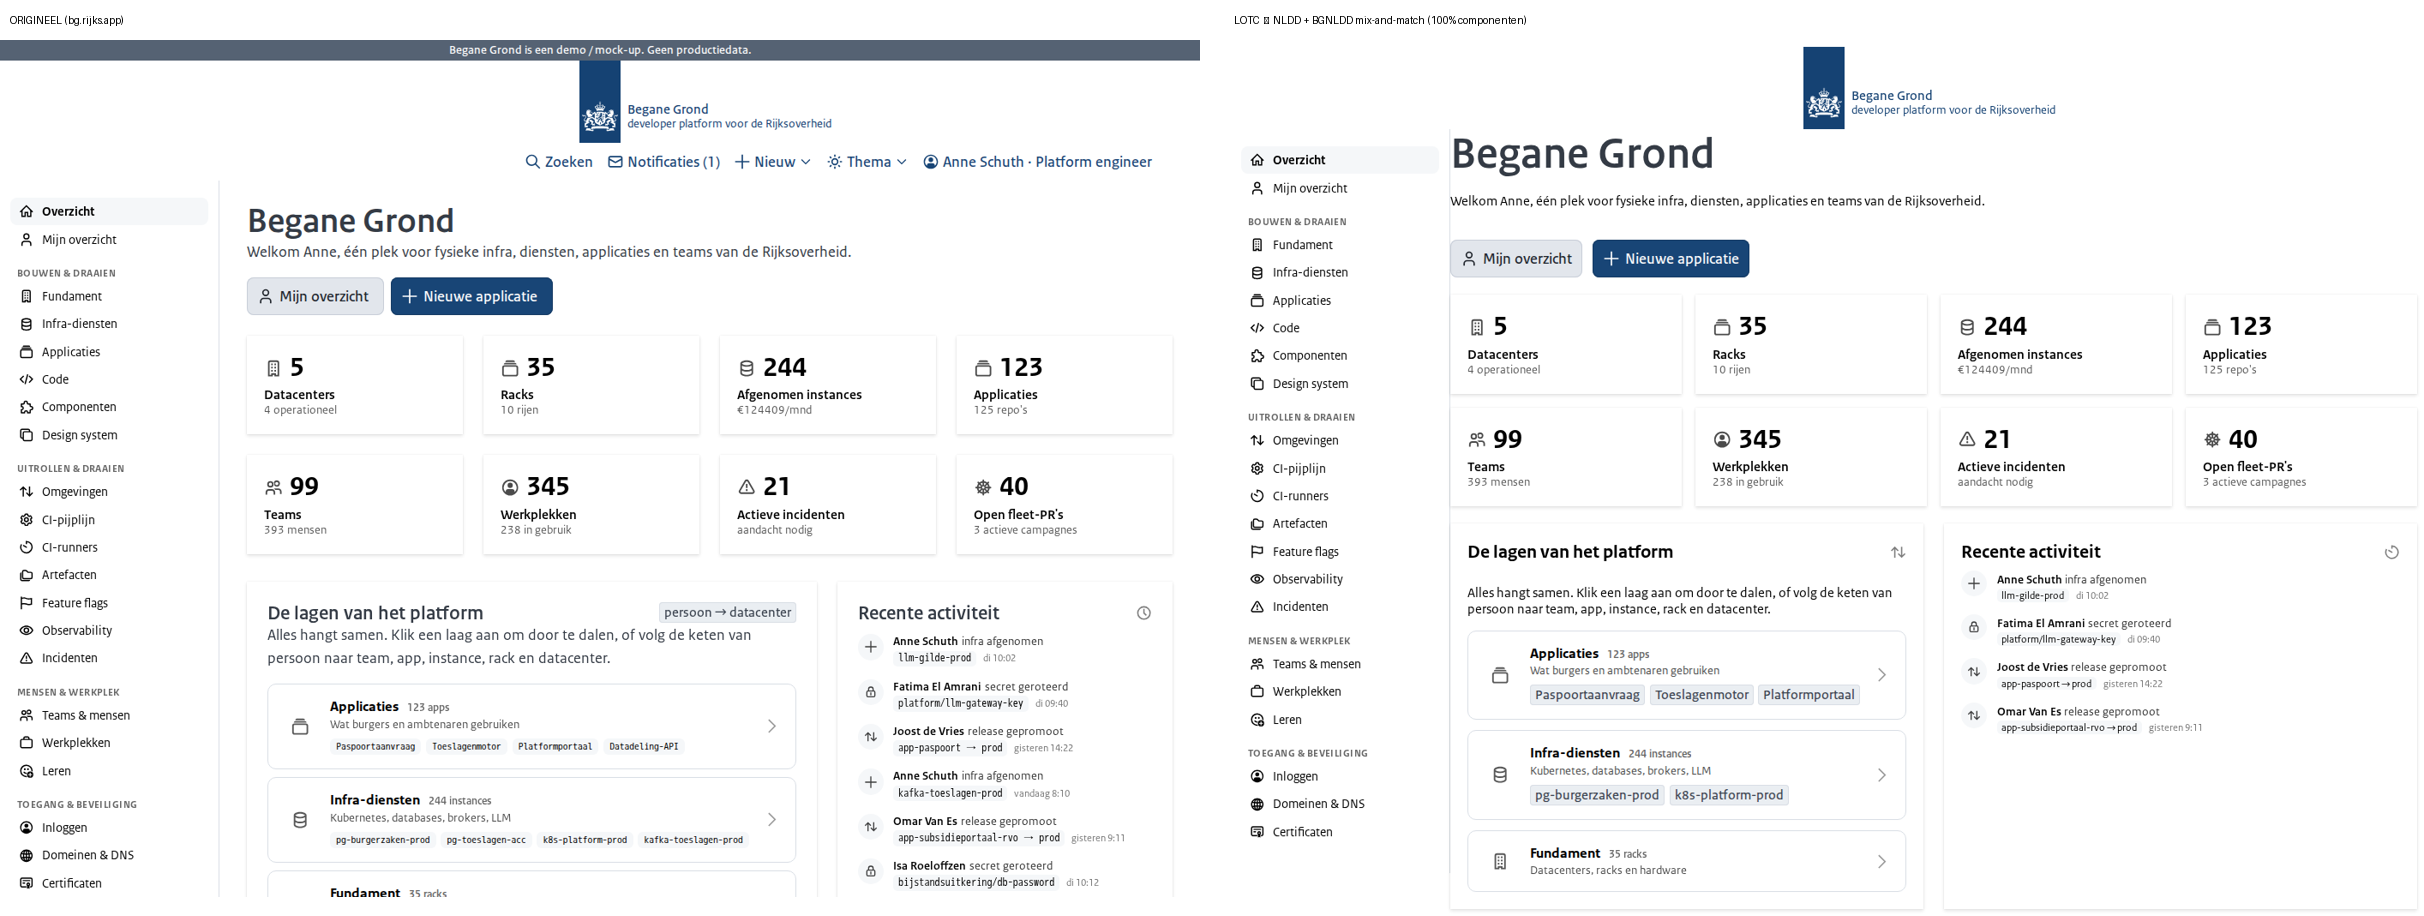
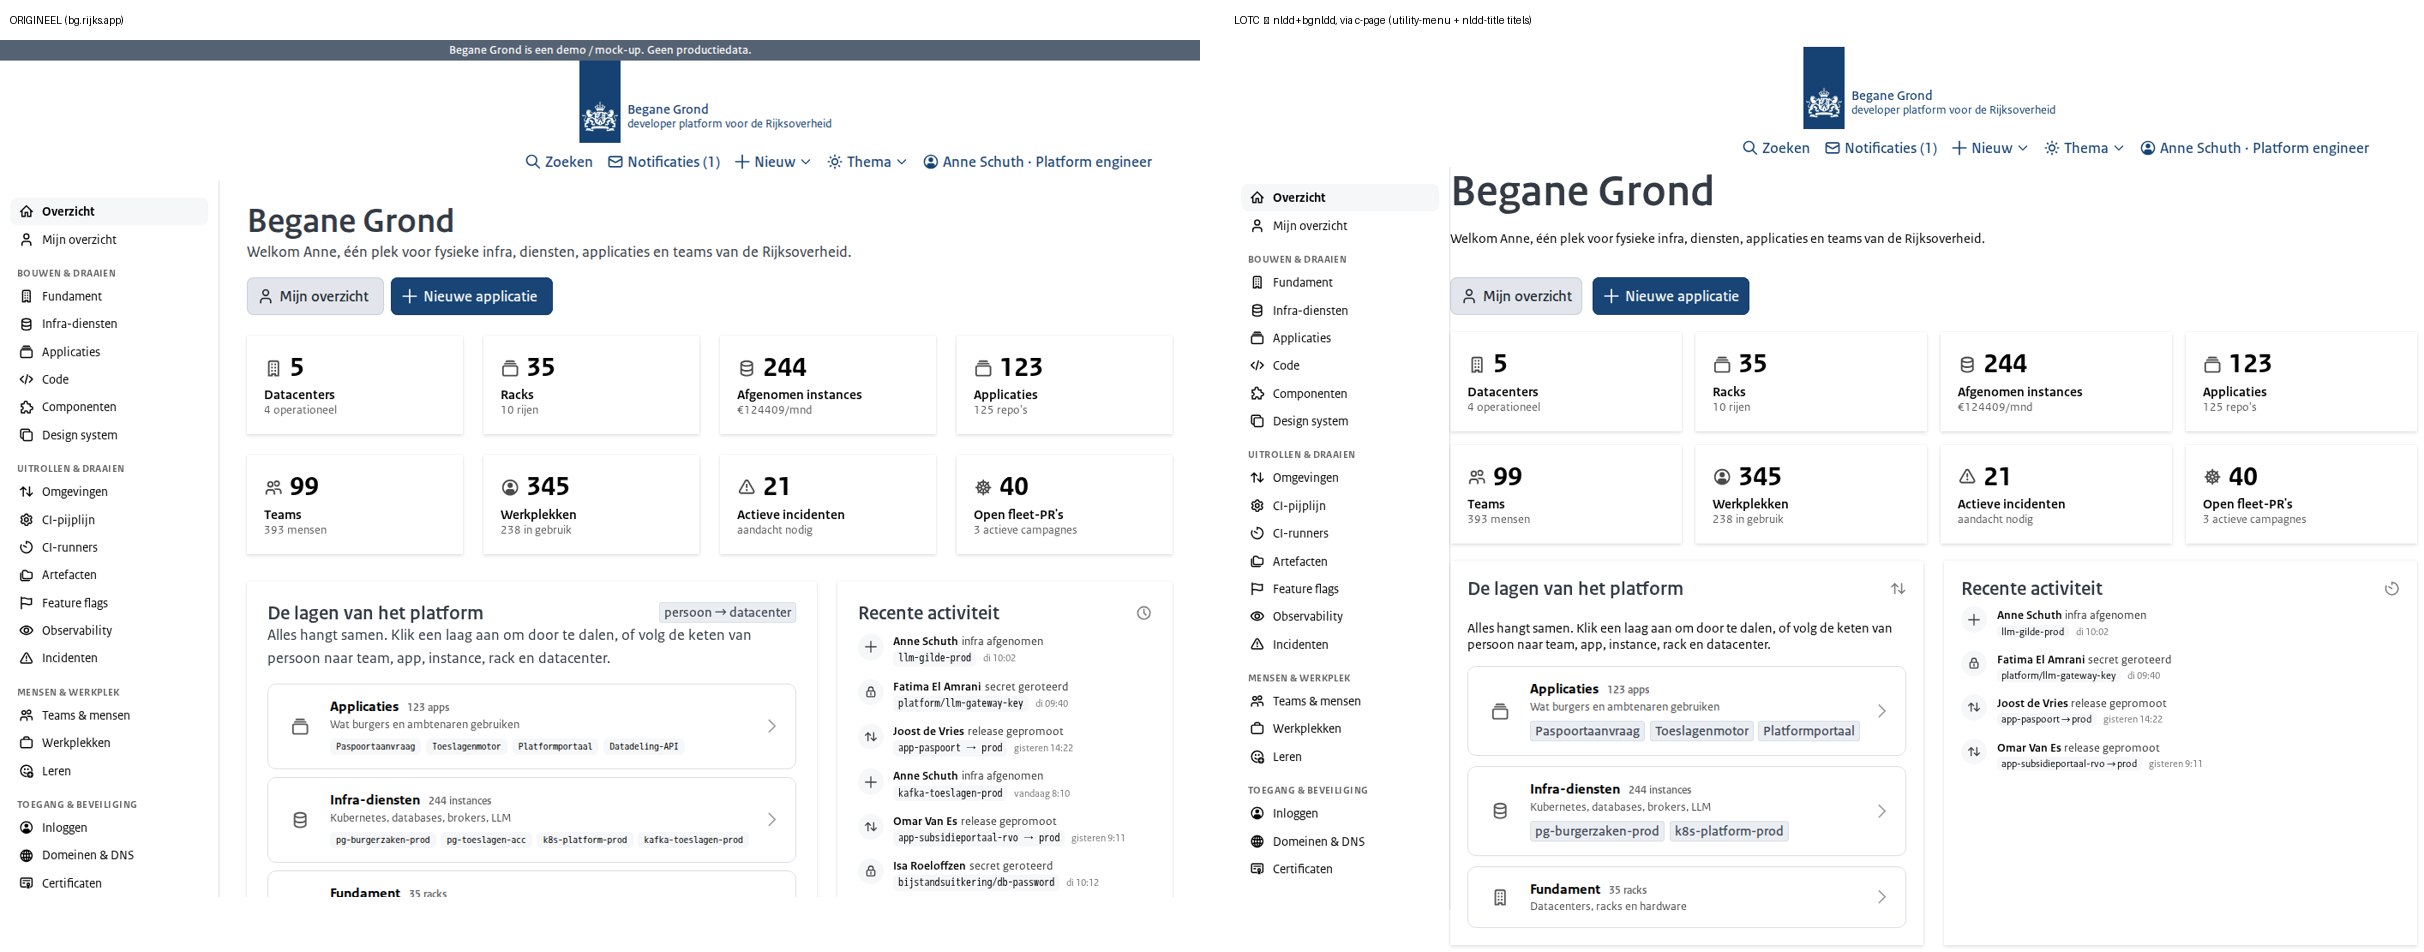
Add header utility menu + fix section-title fonts in the BG recreation
- c-header (NLDD) now renders its children inside <nldd-top-navigation-bar>, so a
  utility menu can be slotted into it.
- New BGNLDD components c-menu-bar -> <nldd-menu-bar slot="utility"> and
  c-menu-bar-item -> <nldd-menu-bar-item text icon [expandable]>, for the header's
  Zoeken / Notificaties / Nieuw / Thema / profiel menu.
- c-section-head now renders its title via the real <nldd-title size="4"> instead
  of a hand-styled span, so section titles ("De lagen van het platform", "Recente
  activiteit") match the design system's title typography.

The Overzicht recreation now includes the top utility menu and matches the
original closely; only the status bar remains as a gap. 2138 python + 144 core
tests pass.

diff --git a/themes/bgnldd/definitions/index.ts b/themes/bgnldd/definitions/index.ts
@@ -127,6 +127,31 @@ export const shortcut = defineComponent({
   },
 });
 
+// ── menu-bar: the header utility menu (Zoeken / Notificaties / … ) ──────────
+export const menuBar = defineComponent({
+  name: "menu-bar",
+  description: "Header utility menu bar (nldd-menu-bar in the top-nav utility slot)",
+  category: "navigation",
+  props: {
+    [PROPS.LABEL]: { description: "Accessible label (default \"Hulplinks\")" },
+    [PROPS.CLASS]: { description: "Additional CSS classes" },
+  },
+  content: { allowed: true },
+});
+
+export const menuBarItem = defineComponent({
+  name: "menu-bar-item",
+  description: "A utility menu item: text + NLDD icon, optionally expandable",
+  category: "navigation",
+  props: {
+    [PROPS.LABEL]: { description: "Item text" },
+    [PROPS.ICON]: { description: "NLDD icon name (e.g. search, envelope, plus, sun)" },
+    expandable: null, // boolean — shows a disclosure chevron
+    [PROPS.HREF]: { description: "Link target" },
+    [PROPS.CLASS]: { description: "Additional CSS classes" },
+  },
+});
+
 /** All BGNLDD component definitions, in registry order. */
 export const BGNLDD_COMPONENTS = [
   metric,
@@ -138,4 +163,6 @@ export const BGNLDD_COMPONENTS = [
   activity,
   activityItem,
   shortcut,
+  menuBar,
+  menuBarItem,
 ];

diff --git a/tests/visual/fixtures/bg-overzicht.html b/tests/visual/fixtures/bg-overzicht.html
@@ -5,7 +5,15 @@
 
 <c-app-shell width="16rem">
   <template slot="header">
-    <c-header text="Begane Grond" subtitle="developer platform voor de Rijksoverheid" link="/"/>
+    <c-header text="Begane Grond" subtitle="developer platform voor de Rijksoverheid" link="/">
+      <c-menu-bar>
+        <c-menu-bar-item label="Zoeken" icon="search"/>
+        <c-menu-bar-item label="Notificaties (1)" icon="envelope"/>
+        <c-menu-bar-item label="Nieuw" icon="plus" expandable/>
+        <c-menu-bar-item label="Thema" icon="sun" expandable/>
+        <c-menu-bar-item label="Anne Schuth · Platform engineer" icon="person-circle"/>
+      </c-menu-bar>
+    </c-header>
   </template>
 
   <template slot="sidebar">

diff --git a/packages/lotc-bgnldd/src/lotc_bgnldd/static/lotc/bgnldd/bg-components.css b/packages/lotc-bgnldd/src/lotc_bgnldd/static/lotc/bgnldd/bg-components.css
@@ -91,7 +91,9 @@
     display: flex;
 }
 .bg-section-head-main { align-items: center; gap: 0.6rem; display: flex; }
-.bg-section-title { font-size: 1.4rem; font-weight: 700; line-height: 1.2; }
+/* Title is rendered by <nldd-title> (its shadow controls typography); just
+   strip the slotted heading's default margin so it sits in the flex row. */
+.bg-section-title { margin: 0; }
 .bg-head-icon { opacity: 0.5; flex: 0 0 auto; width: 1.2rem; height: 1.2rem; }
 
 /* ── activity ────────────────────────────────────────────────────────────── */

diff --git a/themes/nldd/components/header.impl.ts b/themes/nldd/components/header.impl.ts
@@ -12,6 +12,9 @@ export const headerImpl = defineImplementation({
       { prop: "subtitle", attr: "logo-subtitle", type: "value", conditional: true },
       { prop: "link", attr: "website-href", type: "value", conditional: true },
     ],
+    // Header content (e.g. a utility <c-menu-bar slot="utility">) renders inside
+    // the top navigation bar.
+    text: { content: true },
   },
   mixins: { genericAttributes: true },
 });

diff --git a/python/tests/test_bgnldd.py b/python/tests/test_bgnldd.py
@@ -54,6 +54,27 @@ def test_mix_and_match_routes_by_owner_theme(render):
     assert "bg-metric-link" in html  # BGNLDD component
 
 
+def test_header_utility_menu(render):
+    # c-header renders its children inside the nav bar; the utility menu bar lands
+    # in the top-nav "utility" slot with its items (text + NLDD icon).
+    html = render(
+        '<c-header text="BG" link="/">'
+        '<c-menu-bar><c-menu-bar-item label="Zoeken" icon="search"/>'
+        '<c-menu-bar-item label="Nieuw" icon="plus" expandable/></c-menu-bar></c-header>'
+    )
+    assert "<nldd-top-navigation-bar" in html
+    assert '<nldd-menu-bar slot="utility"' in html
+    assert '<nldd-menu-bar-item text="Zoeken" icon="search"' in html
+    assert "expandable" in html  # the "Nieuw" item
+
+
+def test_section_head_uses_nldd_title(render):
+    # Section titles render via the real nldd-title (not a hand-styled span), so
+    # they match the design system's title typography.
+    html = render('<c-section-head title="De lagen" icon="timer"/>')
+    assert '<nldd-title size="4"><h2' in html and "De lagen" in html
+
+
 def test_layer_and_activity_render(render):
     layer = render('<c-layer icon="rectangle-stack" title="Applicaties" count="123 apps" sub="Wat.."/>')
     assert 'class="bg-layer"' in layer and "bg-layer-title" in layer and "bg-layer-go" in layer

diff --git a/tests/visual/gen_bg_overzicht.py b/tests/visual/gen_bg_overzicht.py
@@ -126,7 +126,15 @@ def build() -> str:
 
 <c-app-shell width="16rem">
   <template slot="header">
-    <c-header text="Begane Grond" subtitle="developer platform voor de Rijksoverheid" link="/"/>
+    <c-header text="Begane Grond" subtitle="developer platform voor de Rijksoverheid" link="/">
+      <c-menu-bar>
+        <c-menu-bar-item label="Zoeken" icon="search"/>
+        <c-menu-bar-item label="Notificaties (1)" icon="envelope"/>
+        <c-menu-bar-item label="Nieuw" icon="plus" expandable/>
+        <c-menu-bar-item label="Thema" icon="sun" expandable/>
+        <c-menu-bar-item label="Anne Schuth · Platform engineer" icon="person-circle"/>
+      </c-menu-bar>
+    </c-header>
   </template>
 
   <template slot="sidebar">

diff --git a/tests/visual/BG_OVERZICHT_GAPS.md b/tests/visual/BG_OVERZICHT_GAPS.md
@@ -4,9 +4,12 @@
 > layer, section-head, activity, shortcut) are now provided by the **BGNLDD**
 > theme (`packages/lotc-bgnldd`), a mix-and-match layer on top of NLDD. The
 > recreation (`gen_bg_overzicht.py`) is now built 100% from `c-*` components
-> under `design_systems=["nldd", "bgnldd"]`. Only two gaps remain: the
-> **status bar** and the **header utility menu** (see the list at the bottom).
-> The original "pure NLDD-only" measurement is kept below for the record.
+> under `design_systems=["nldd", "bgnldd"]`, rendered end-to-end through
+> `<c-page design-systems="nldd bgnldd">`. The header **utility menu** is now
+> provided too (`c-menu-bar` + `c-menu-bar-item` → `nldd-menu-bar` in the top-nav
+> utility slot; `c-header` renders its children inside the nav bar), and section
+> titles use the real `nldd-title` component. **Only the status bar remains** as a
+> gap. The original "pure NLDD-only" measurement is kept below for the record.
 
 ---
 
